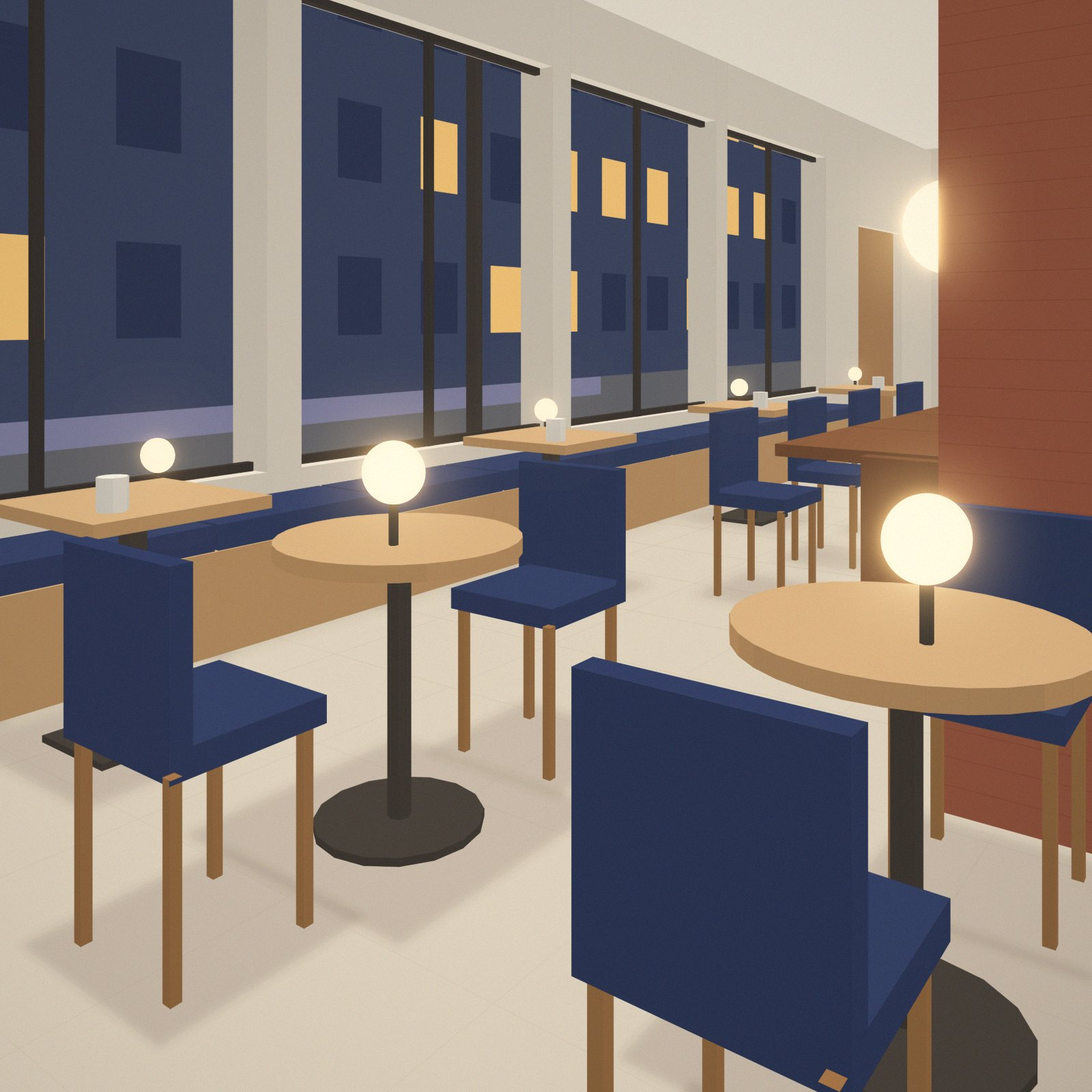
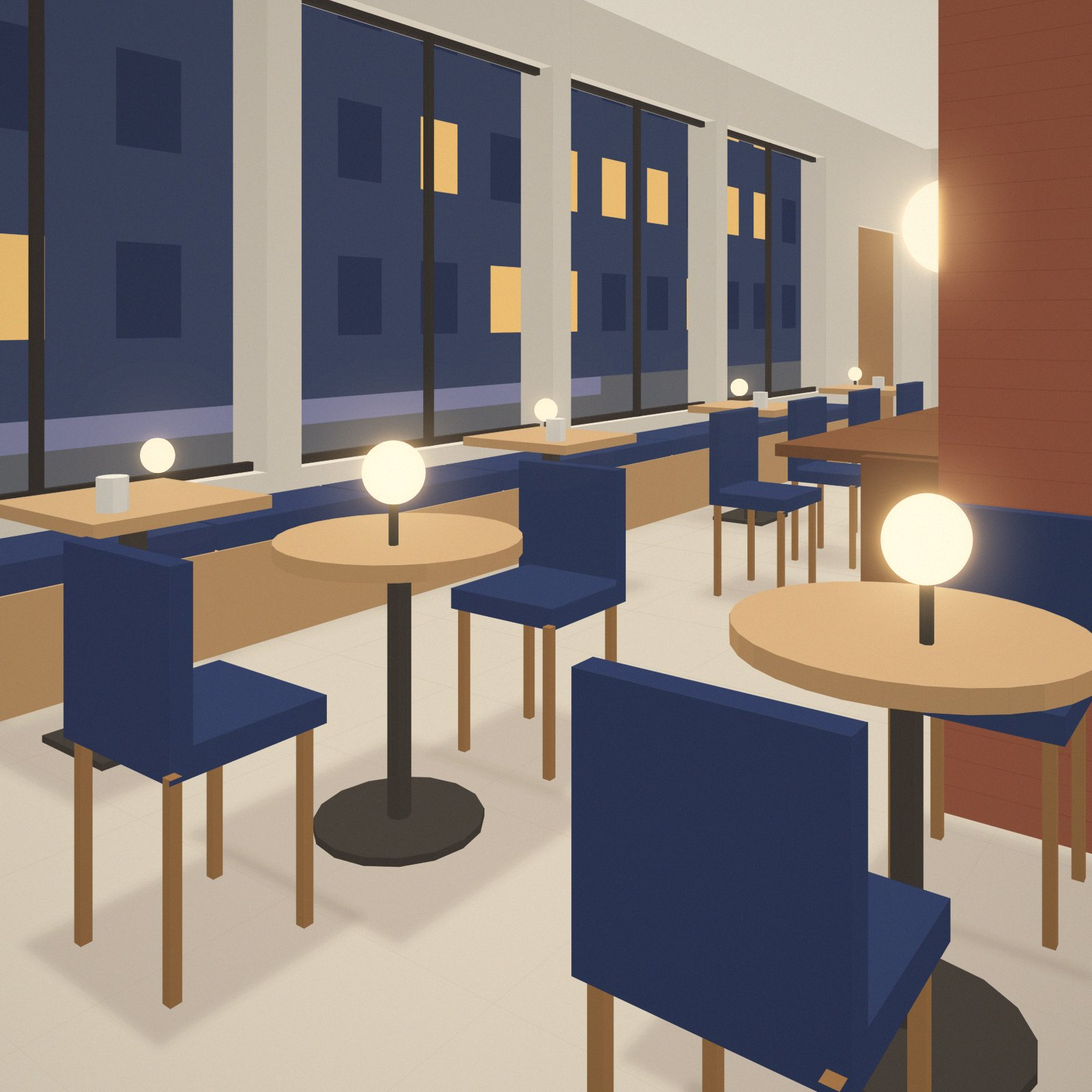
달빛카페: 위치를 해방촌 언덕으로 옮김(주소·문구, 녹사평역에서 오르는 언덕 약도, 만월창 창밖에 비탈 아래 지붕과 불빛)

Changed region(s): [[0.4062, 0.0312, 0.4688, 0.4062]]

diff --git a/projects/moonlight-cafe/visit.html b/projects/moonlight-cafe/visit.html
@@ -10,9 +10,9 @@
   <link rel="preconnect" href="https://fonts.gstatic.com" crossorigin>
   <link rel="stylesheet" href="https://fonts.googleapis.com/css2?family=Gowun+Batang:wght@400;700&display=swap">
   <link rel="stylesheet" href="https://cdn.jsdelivr.net/gh/orioncactus/pretendard@v1.3.9/dist/web/variable/pretendardvariable-dynamic-subset.min.css">
-  <link rel="stylesheet" href="css/style.css?v=20261116-1">
-  <script src="js/common.js?v=20261116-1" defer></script>
-  <script src="js/pages.js?v=20261116-1" defer></script>
+  <link rel="stylesheet" href="css/style.css?v=20261116-2">
+  <script src="js/common.js?v=20261116-2" defer></script>
+  <script src="js/pages.js?v=20261116-2" defer></script>
 </head>
 <body>
   <a class="skip-link" href="#main">본문 바로가기</a>
@@ -43,7 +43,7 @@
       <div class="container">
         <h1 class="title-xl">찾아오시는 길</h1>
         <p class="lead">저녁 여섯 시부터 새벽 두 시까지 문을 엽니다.</p>
-        <figure class="page-photo"><img src="images/space/facade.jpg" alt="벽돌 건물 1층, 나무 문 옆 긴 창 너머로 불 켜진 달빛의 실내" width="1600" height="2000" data-fallback="images/found/latte-cup.jpg" data-fallback-alt="손바닥 위에 놓인 라떼 한 잔"></figure>
+        <figure class="page-photo"><img src="images/space/facade.jpg" alt="해방촌 언덕길의 벽돌 건물 1층, 나무 문 옆 긴 창 너머로 불 켜진 달빛의 실내" width="1600" height="2000" data-fallback="images/found/latte-cup.jpg" data-fallback-alt="손바닥 위에 놓인 라떼 한 잔"></figure>
       </div>
     </section>
 
@@ -55,7 +55,7 @@
         <dl class="info-list">
           <div>
             <dt>주소</dt>
-            <dd>서울시 중구 월하길 15, 1층</dd>
+            <dd>서울시 용산구 해방촌 월하길 15, 1층</dd>
           </div>
           <div>
             <dt>전화</dt>
@@ -118,7 +118,7 @@
         <figure class="map-figure">
           <svg class="map" viewBox="0 0 480 360" role="img" aria-labelledby="map-svg-title map-svg-desc">
             <title id="map-svg-title">달빛 가는 길 약도</title>
-            <desc id="map-svg-desc">월하역 2번 출구로 나와 월하대로를 따라 오른쪽으로 걷다가, 월하길로 들어서면 왼쪽에 달빛이 있습니다. 월하길 입구에 버스 정류장이 있습니다.</desc>
+            <desc id="map-svg-desc">녹사평역에서 신흥로 언덕길을 따라 해방촌 오거리까지 올라간 뒤, 동쪽으로 내려가는 월하길로 들어서면 왼쪽에 달빛이 있습니다. 달빛 동쪽은 비탈이 낮아져 지붕들 너머로 하늘이 트여 있습니다.</desc>
             <defs>
               <radialGradient id="map-moon" cx="40%" cy="38%" r="70%">
                 <stop offset="0" stop-color="#F8F2E2"/>
@@ -126,47 +126,54 @@
               </radialGradient>
             </defs>
             <rect class="map-bg" width="480" height="360"/>
+            <!-- 등고선: 서북쪽(남산)이 높고 동쪽으로 낮아진다 -->
+            <g class="map-contour">
+              <path d="M0 96 C 60 70, 120 40, 150 0"/>
+              <path d="M0 150 C 90 120, 170 70, 214 0"/>
+              <path d="M396 0 C 400 90, 420 190, 480 250"/>
+              <path d="M428 0 C 432 80, 448 160, 480 196"/>
+              <path d="M300 360 C 360 300, 420 270, 480 300"/>
+            </g>
             <!-- 건물 -->
             <g class="map-block">
-              <rect x="24" y="24" width="112" height="76"/>
-              <rect x="156" y="24" width="120" height="76"/>
-              <rect x="24" y="152" width="112" height="92"/>
-              <rect x="156" y="152" width="108" height="92"/>
-              <rect x="340" y="24" width="116" height="100"/>
-              <rect x="340" y="146" width="76" height="78"/>
-              <rect x="24" y="330" width="160" height="30"/>
-              <rect x="204" y="330" width="252" height="30"/>
+              <rect x="236" y="34" width="56" height="56"/>
+              <rect x="302" y="34" width="84" height="56"/>
+              <rect x="244" y="176" width="66" height="56"/>
+              <rect x="322" y="186" width="58" height="48"/>
+              <rect x="128" y="236" width="76" height="58"/>
             </g>
             <!-- 길 -->
-            <g class="map-road">
-              <path d="M0 264 H480 M0 296 H480"/>
-              <path d="M290 0 V264 M318 0 V264"/>
-              <path d="M0 122 H290 M0 132 H290"/>
+            <g class="map-street">
+              <path d="M40 330 C 110 300, 70 240, 130 206 S 200 160, 212 126"/>
+              <path d="M212 126 C 280 130, 340 140, 470 186"/>
+              <path d="M212 126 C 196 90, 170 50, 160 0"/>
             </g>
-            <text class="map-road-name" x="470" y="286" text-anchor="end">월하대로</text>
-            <text class="map-road-name" x="304" y="60" text-anchor="middle" transform="rotate(-90 304 60)">월하길</text>
+            <text class="map-road-name" x="58" y="246" text-anchor="middle" transform="rotate(-56 58 246)">신흥로</text>
+            <text class="map-road-name" x="420" y="156" text-anchor="middle" transform="rotate(19 420 156)">월하길</text>
+            <text class="map-road-name" x="150" y="22" text-anchor="end">남산 쪽</text>
+            <text class="map-road-name" x="470" y="300" text-anchor="end">비탈 아래, 이태원 쪽</text>
             <!-- 걷는 길 -->
-            <path class="map-route" d="M84 280 H304 V188"/>
-            <!-- 지하철 출구 -->
+            <path class="map-route" d="M40 330 C 110 300, 70 240, 130 206 S 200 160, 212 126 C 260 129, 300 134, 344 142"/>
+            <!-- 지하철 -->
             <g class="map-exit">
-              <circle cx="84" cy="280" r="11"/>
-              <text x="84" y="284.5" text-anchor="middle">2</text>
+              <circle cx="40" cy="330" r="11"/>
+              <text x="40" y="334.5" text-anchor="middle">6</text>
             </g>
-            <text class="map-label" x="84" y="318" text-anchor="middle">월하역 2번 출구</text>
-            <!-- 버스 정류장 -->
-            <rect class="map-bus" x="324" y="240" width="12" height="12"/>
-            <text class="map-label" x="344" y="241"><tspan x="344">월하길 입구</tspan><tspan x="344" dy="1.25em">정류장</tspan></text>
+            <text class="map-label" x="58" y="346">녹사평역</text>
+            <!-- 버스 · 오거리 -->
+            <rect class="map-bus" x="218" y="104" width="12" height="12"/>
+            <text class="map-label" x="194" y="92" text-anchor="end"><tspan x="194">해방촌</tspan><tspan x="194" dy="1.25em">오거리</tspan></text>
             <!-- 달빛 -->
-            <circle class="map-cafe" cx="264" cy="180" r="13" fill="url(#map-moon)"/>
-            <text class="map-cafe-name" x="244" y="178" text-anchor="end">달빛</text>
-            <text class="map-label" x="244" y="196" text-anchor="end">1층</text>
+            <circle class="map-cafe" cx="344" cy="122" r="13" fill="url(#map-moon)"/>
+            <text class="map-cafe-name" x="364" y="121">달빛</text>
+            <text class="map-label" x="404" y="121">1층</text>
             <!-- 북쪽 -->
             <g class="map-north">
-              <path d="M450 200 V172 M444 180 L450 172 L456 180"/>
-              <text x="450" y="164" text-anchor="middle">N</text>
+              <path d="M450 92 V64 M444 72 L450 64 L456 72"/>
+              <text x="450" y="56" text-anchor="middle">N</text>
             </g>
           </svg>
-          <figcaption class="map-caption">실제 지도가 아닌 간단한 약도입니다. 월하역 2번 출구에서 걸어서 5분 거리입니다.</figcaption>
+          <figcaption class="map-caption">실제 지도가 아닌 간단한 약도입니다. 녹사평역에서 언덕길을 따라 걸어서 15분 거리입니다.</figcaption>
         </figure>
       </div>
     </section>
@@ -179,11 +186,11 @@
         <dl class="info-list">
           <div>
             <dt>지하철</dt>
-            <dd>월하역 2번 출구에서 걸어서 5분</dd>
+            <dd>6호선 녹사평역에서 신흥로 언덕길을 따라 걸어서 15분</dd>
           </div>
           <div>
             <dt>버스</dt>
-            <dd>월하길 입구 정류장에서 걸어서 2분</dd>
+            <dd>해방촌 오거리에서 내려 월하길을 따라 걸어서 3분</dd>
           </div>
           <div>
             <dt>주차</dt>
@@ -204,7 +211,7 @@
         <li><a href="visit.html">찾아오시는 길</a></li>
         <li><a href="news.html">소식</a></li>
       </ul>
-      <p class="footer-contact">서울시 중구 월하길 15, 1층<br>02-000-0000<br>화–일 18:00 – 02:00, 월요일 휴무</p>
+      <p class="footer-contact">서울시 용산구 해방촌 월하길 15, 1층<br>02-000-0000<br>화–일 18:00 – 02:00, 월요일 휴무</p>
     </div>
     <div class="footer-bottom">
       <div class="footer-legal">

diff --git a/projects/moonlight-cafe/space.html b/projects/moonlight-cafe/space.html
@@ -10,9 +10,9 @@
   <link rel="preconnect" href="https://fonts.gstatic.com" crossorigin>
   <link rel="stylesheet" href="https://fonts.googleapis.com/css2?family=Gowun+Batang:wght@400;700&display=swap">
   <link rel="stylesheet" href="https://cdn.jsdelivr.net/gh/orioncactus/pretendard@v1.3.9/dist/web/variable/pretendardvariable-dynamic-subset.min.css">
-  <link rel="stylesheet" href="css/style.css?v=20261116-1">
-  <script src="js/common.js?v=20261116-1" defer></script>
-  <script src="js/space.js?v=20261116-1" defer></script>
+  <link rel="stylesheet" href="css/style.css?v=20261116-2">
+  <script src="js/common.js?v=20261116-2" defer></script>
+  <script src="js/space.js?v=20261116-2" defer></script>
 </head>
 <body>
   <a class="skip-link" href="#main">본문 바로가기</a>
@@ -46,7 +46,7 @@
           <p class="lead" data-reveal>달이 드는 방 하나. 월하길 쪽 긴 창과 동쪽 벽의 둥근 창으로 밤빛을 들였습니다.</p>
         </div>
         <dl class="meta project-meta" data-reveal>
-          <div><dt>위치</dt><dd>서울 중구 월하길 15, 1층</dd></div>
+          <div><dt>위치</dt><dd>서울 용산구 해방촌 월하길 15, 1층</dd></div>
           <div><dt>연도</dt><dd>2026</dd></div>
           <div><dt>면적</dt><dd>98㎡ (14.4 × 6.8m), 층고 3.4m</dd></div>
           <div><dt>좌석</dt><dd>스물여덟 자리</dd></div>
@@ -133,7 +133,7 @@
           <h2 id="concept-title" class="title-lg">밤에 차는 방</h2>
         </div>
         <div>
-          <p class="body-text">달빛이 들어선 곳은 오래된 인쇄소 1층입니다. 벽돌 기둥 두 개와 높은 천장은 그대로 두고, 벽과 천장은 석회로 곱게 미장해 낮은 빛이 부드럽게 번지도록 했습니다.</p>
+          <p class="body-text">달빛이 들어선 곳은 해방촌 언덕의 오래된 인쇄소 1층입니다. 언덕이 동쪽으로 낮아지는 끝자리라 동쪽으로는 하늘을 가리는 건물이 없습니다. 벽돌 기둥 두 개와 높은 천장은 그대로 두고, 벽과 천장은 석회로 곱게 미장해 낮은 빛이 부드럽게 번지도록 했습니다.</p>
           <p class="body-text">조명은 모두 눈높이 아래에 둡니다. 큰 테이블 위 한지 등 세 개, 창가 벤치의 작은 등, 바 뒤 선반의 간접등이 전부입니다. 밤이 깊을수록 창밖의 달과 가로등이 방에서 가장 밝은 빛이 됩니다.</p>
           <p class="body-text">자리는 혼자 오는 사람을 먼저 생각했습니다. 바에 네 자리, 창가 벤치에 열 자리, 두 사람이 마주 앉는 등 아래 자리와 여덟 명이 함께 쓰는 큰 테이블이 있습니다.</p>
         </div>
@@ -399,9 +399,10 @@
       <div class="container moon-window-layout">
         <div class="moon-window-text">
           <h2 id="moon-window-title" class="title-lg">만월창</h2>
-          <p class="body-text">동쪽 벽에 지름 1.6m의 둥근 창을 냈습니다. 보름 무렵이면 문을 여는 저녁, 이 창 위로 달이 떠오릅니다. 두 자리뿐이라 먼저 오신 분의 자리입니다.</p>
+          <p class="body-text">동쪽 벽에 지름 1.6m의 둥근 창을 냈습니다. 창 아래로 비탈의 지붕들이 낮게 내려가 하늘이 트여 있어, 보름 무렵이면 문을 여는 저녁 그 지붕들 위로 달이 떠오릅니다. 두 자리뿐이라 먼저 오신 분의 자리입니다.</p>
           <dl class="meta">
             <div><dt>창</dt><dd>지름 1.6m, 바닥에서 0.7m 위</dd></div>
+            <div><dt>창밖</dt><dd>동쪽 비탈, 낮은 지붕들과 하늘</dd></div>
             <div><dt>테이블</dt><dd>오크, 지름 70cm</dd></div>
             <div><dt>의자</dt><dd>남색 벨벳 두 개</dd></div>
           </dl>
@@ -440,7 +441,7 @@
     </section>
 
     <figure class="shot shot--bleed" data-reveal>
-      <img src="images/space/moon-window.jpg" alt="석회 벽에 뚫린 둥근 창 너머 밤하늘의 보름달, 창 앞의 둥근 테이블과 남색 의자 두 개" width="2400" height="1350" loading="lazy" data-fallback>
+      <img src="images/space/moon-window.jpg" alt="석회 벽에 뚫린 둥근 창 너머 비탈 아래 불 켜진 지붕들과 보름달, 창 앞의 둥근 테이블과 남색 의자 두 개" width="2400" height="1350" loading="lazy" data-fallback>
       <figcaption class="container">6 · 만월창 자리</figcaption>
     </figure>
 
@@ -450,7 +451,7 @@
           <h2 id="space-end-title" class="title-lg">월하길에서</h2>
         </div>
         <div>
-          <p class="body-text">나무 문 옆으로 긴 창이 이어집니다. 불이 켜져 있으면 문을 연 날입니다.</p>
+          <p class="body-text">해방촌 오거리에서 동쪽으로 내려가는 골목입니다. 나무 문 옆으로 긴 창이 이어지고, 불이 켜져 있으면 문을 연 날입니다.</p>
           <p class="space-end-links"><a class="btn" href="visit.html">찾아오시는 길</a><a class="text-link" href="menu.html">메뉴 보기</a></p>
         </div>
       </div>
@@ -467,7 +468,7 @@
         <li><a href="visit.html">찾아오시는 길</a></li>
         <li><a href="news.html">소식</a></li>
       </ul>
-      <p class="footer-contact">서울시 중구 월하길 15, 1층<br>02-000-0000<br>화–일 18:00 – 02:00, 월요일 휴무</p>
+      <p class="footer-contact">서울시 용산구 해방촌 월하길 15, 1층<br>02-000-0000<br>화–일 18:00 – 02:00, 월요일 휴무</p>
     </div>
     <div class="footer-bottom">
       <div class="footer-legal">

diff --git a/projects/moonlight-cafe/index.html b/projects/moonlight-cafe/index.html
@@ -10,11 +10,11 @@
   <link rel="preconnect" href="https://fonts.gstatic.com" crossorigin>
   <link rel="stylesheet" href="https://fonts.googleapis.com/css2?family=Gowun+Batang:wght@400;700&display=swap">
   <link rel="stylesheet" href="https://cdn.jsdelivr.net/gh/orioncactus/pretendard@v1.3.9/dist/web/variable/pretendardvariable-dynamic-subset.min.css">
-  <link rel="stylesheet" href="css/style.css?v=20261116-1">
-  <script src="js/data-menu.js?v=20261116-1" defer></script>
-  <script src="js/data-news.js?v=20261116-1" defer></script>
-  <script src="js/common.js?v=20261116-1" defer></script>
-  <script src="js/home.js?v=20261116-1" defer></script>
+  <link rel="stylesheet" href="css/style.css?v=20261116-2">
+  <script src="js/data-menu.js?v=20261116-2" defer></script>
+  <script src="js/data-news.js?v=20261116-2" defer></script>
+  <script src="js/common.js?v=20261116-2" defer></script>
+  <script src="js/home.js?v=20261116-2" defer></script>
 </head>
 <body>
   <a class="skip-link" href="#main">본문 바로가기</a>
@@ -45,14 +45,14 @@
       <div class="hero-head">
         <div class="hero-text">
           <h1 id="hero-title" class="hero-title" data-reveal>달이 뜨면<br>문을 엽니다</h1>
-          <p class="hero-lead" data-reveal>하루를 마친 저녁, 잠시 머물다 가는 동네 카페입니다. 화요일부터 일요일까지 저녁 6시에 문을 열고 새벽 2시까지 불을 켜 둡니다.</p>
+          <p class="hero-lead" data-reveal>하루를 마친 저녁, 잠시 머물다 가는 해방촌 언덕의 카페입니다. 화요일부터 일요일까지 저녁 6시에 문을 열고 새벽 2시까지 불을 켜 둡니다.</p>
           <div class="hero-actions" data-reveal>
             <a class="btn" href="menu.html">메뉴 보기</a>
             <a class="text-link" href="space.html">공간 둘러보기</a>
           </div>
         </div>
         <dl class="meta hero-meta" data-reveal>
-          <div><dt>위치</dt><dd>서울 중구 월하길 15, 1층</dd></div>
+          <div><dt>위치</dt><dd>서울 용산구 해방촌 월하길 15, 1층</dd></div>
           <div><dt>영업</dt><dd>화–일 18:00 – 02:00</dd></div>
           <div><dt>공간</dt><dd>98㎡, 스물여덟 자리</dd></div>
           <div class="tonight">
@@ -131,7 +131,7 @@
     <section class="space-teaser" aria-labelledby="space-teaser-title">
       <div class="space-teaser-text">
         <h2 id="space-teaser-title" class="head" data-reveal>달이 드는 방</h2>
-        <p class="intro-text" data-reveal>월하길을 따라 난 긴 창과 동쪽 벽의 둥근 창. 오래된 인쇄소 1층, 98㎡에 스물여덟 자리를 두었습니다.</p>
+        <p class="intro-text" data-reveal>해방촌 언덕이 동쪽으로 낮아지는 끝자리, 오래된 인쇄소 1층입니다. 월하길을 따라 난 긴 창과 지붕들 너머 하늘로 난 둥근 창, 98㎡에 스물여덟 자리를 두었습니다.</p>
         <dl class="meta" data-reveal>
           <div><dt>면적</dt><dd>14.4 × 6.8m, 층고 3.4m</dd></div>
           <div><dt>재료</dt><dd>석회 미장, 오크, 옛 벽돌, 남색 벨벳</dd></div>
@@ -287,9 +287,9 @@
     <section class="visit" aria-labelledby="visit-title">
       <div class="visit-text">
         <h2 id="visit-title" class="visit-address" data-reveal>월하길 15</h2>
-        <p class="visit-lead" data-reveal>월하역 2번 출구에서 걸어서 5분. 자정이 지나도 새벽 두 시까지 불을 켜 둡니다.</p>
+        <p class="visit-lead" data-reveal>녹사평역에서 언덕길을 따라 걸어서 15분. 자정이 지나도 새벽 두 시까지 불을 켜 둡니다.</p>
         <dl class="meta visit-info" data-reveal>
-          <div><dt>주소</dt><dd>서울시 중구 월하길 15, 1층</dd></div>
+          <div><dt>주소</dt><dd>서울시 용산구 해방촌 월하길 15, 1층</dd></div>
           <div><dt>전화</dt><dd>02-000-0000</dd></div>
           <div><dt>영업</dt><dd>화–일 18:00 – 02:00, 월요일 휴무</dd></div>
         </dl>
@@ -299,7 +299,7 @@
         </div>
       </div>
       <figure class="visit-photo" data-reveal>
-        <img src="images/space/facade.jpg" alt="밤에 불이 켜진 달빛의 나무 문과 긴 창, 월하길 쪽에서 본 모습" width="1600" height="2000" loading="lazy" data-fallback="images/found/latte-cup.jpg" data-fallback-alt="손바닥 위에 놓인 라떼 한 잔">
+        <img src="images/space/facade.jpg" alt="밤에 불이 켜진 달빛의 나무 문과 긴 창, 해방촌 월하길에서 본 모습" width="1600" height="2000" loading="lazy" data-fallback="images/found/latte-cup.jpg" data-fallback-alt="손바닥 위에 놓인 라떼 한 잔">
       </figure>
     </section>
   </main>
@@ -314,7 +314,7 @@
         <li><a href="visit.html">찾아오시는 길</a></li>
         <li><a href="news.html">소식</a></li>
       </ul>
-      <p class="footer-contact">서울시 중구 월하길 15, 1층<br>02-000-0000<br>화–일 18:00 – 02:00, 월요일 휴무</p>
+      <p class="footer-contact">서울시 용산구 해방촌 월하길 15, 1층<br>02-000-0000<br>화–일 18:00 – 02:00, 월요일 휴무</p>
     </div>
     <div class="footer-bottom">
       <div class="footer-legal">

diff --git a/projects/moonlight-cafe/about.html b/projects/moonlight-cafe/about.html
@@ -10,10 +10,10 @@
   <link rel="preconnect" href="https://fonts.gstatic.com" crossorigin>
   <link rel="stylesheet" href="https://fonts.googleapis.com/css2?family=Gowun+Batang:wght@400;700&display=swap">
   <link rel="stylesheet" href="https://cdn.jsdelivr.net/gh/orioncactus/pretendard@v1.3.9/dist/web/variable/pretendardvariable-dynamic-subset.min.css">
-  <link rel="stylesheet" href="css/style.css?v=20261116-1">
-  <script src="js/data-menu.js?v=20261116-1" defer></script>
-  <script src="js/common.js?v=20261116-1" defer></script>
-  <script src="js/pages.js?v=20261116-1" defer></script>
+  <link rel="stylesheet" href="css/style.css?v=20261116-2">
+  <script src="js/data-menu.js?v=20261116-2" defer></script>
+  <script src="js/common.js?v=20261116-2" defer></script>
+  <script src="js/pages.js?v=20261116-2" defer></script>
 </head>
 <body>
   <a class="skip-link" href="#main">본문 바로가기</a>
@@ -78,7 +78,7 @@
       <div class="container">
         <div class="section-head">
           <h2 id="space-title" class="title-lg">공간</h2>
-          <p class="body-text">오래된 인쇄소 1층, 98㎡에 스물여덟 자리. <a class="text-link" href="space.html">평면도와 단면도로 둘러보기</a></p>
+          <p class="body-text">해방촌 언덕의 오래된 인쇄소 1층, 98㎡에 스물여덟 자리. <a class="text-link" href="space.html">평면도와 단면도로 둘러보기</a></p>
         </div>
         <div class="space-grid">
           <figure class="space-item">
@@ -123,7 +123,7 @@
         <li><a href="visit.html">찾아오시는 길</a></li>
         <li><a href="news.html">소식</a></li>
       </ul>
-      <p class="footer-contact">서울시 중구 월하길 15, 1층<br>02-000-0000<br>화–일 18:00 – 02:00, 월요일 휴무</p>
+      <p class="footer-contact">서울시 용산구 해방촌 월하길 15, 1층<br>02-000-0000<br>화–일 18:00 – 02:00, 월요일 휴무</p>
     </div>
     <div class="footer-bottom">
       <div class="footer-legal">

diff --git a/projects/moonlight-cafe/news.html b/projects/moonlight-cafe/news.html
@@ -10,10 +10,10 @@
   <link rel="preconnect" href="https://fonts.gstatic.com" crossorigin>
   <link rel="stylesheet" href="https://fonts.googleapis.com/css2?family=Gowun+Batang:wght@400;700&display=swap">
   <link rel="stylesheet" href="https://cdn.jsdelivr.net/gh/orioncactus/pretendard@v1.3.9/dist/web/variable/pretendardvariable-dynamic-subset.min.css">
-  <link rel="stylesheet" href="css/style.css?v=20261116-1">
-  <script src="js/data-news.js?v=20261116-1" defer></script>
-  <script src="js/common.js?v=20261116-1" defer></script>
-  <script src="js/pages.js?v=20261116-1" defer></script>
+  <link rel="stylesheet" href="css/style.css?v=20261116-2">
+  <script src="js/data-news.js?v=20261116-2" defer></script>
+  <script src="js/common.js?v=20261116-2" defer></script>
+  <script src="js/pages.js?v=20261116-2" defer></script>
 </head>
 <body>
   <a class="skip-link" href="#main">본문 바로가기</a>
@@ -67,7 +67,7 @@
         <li><a href="visit.html">찾아오시는 길</a></li>
         <li><a href="news.html">소식</a></li>
       </ul>
-      <p class="footer-contact">서울시 중구 월하길 15, 1층<br>02-000-0000<br>화–일 18:00 – 02:00, 월요일 휴무</p>
+      <p class="footer-contact">서울시 용산구 해방촌 월하길 15, 1층<br>02-000-0000<br>화–일 18:00 – 02:00, 월요일 휴무</p>
     </div>
     <div class="footer-bottom">
       <div class="footer-legal">

diff --git a/projects/moonlight-cafe/menu.html b/projects/moonlight-cafe/menu.html
@@ -10,10 +10,10 @@
   <link rel="preconnect" href="https://fonts.gstatic.com" crossorigin>
   <link rel="stylesheet" href="https://fonts.googleapis.com/css2?family=Gowun+Batang:wght@400;700&display=swap">
   <link rel="stylesheet" href="https://cdn.jsdelivr.net/gh/orioncactus/pretendard@v1.3.9/dist/web/variable/pretendardvariable-dynamic-subset.min.css">
-  <link rel="stylesheet" href="css/style.css?v=20261116-1">
-  <script src="js/data-menu.js?v=20261116-1" defer></script>
-  <script src="js/common.js?v=20261116-1" defer></script>
-  <script src="js/menu.js?v=20261116-1" defer></script>
+  <link rel="stylesheet" href="css/style.css?v=20261116-2">
+  <script src="js/data-menu.js?v=20261116-2" defer></script>
+  <script src="js/common.js?v=20261116-2" defer></script>
+  <script src="js/menu.js?v=20261116-2" defer></script>
 </head>
 <body>
   <a class="skip-link" href="#main">본문 바로가기</a>
@@ -83,7 +83,7 @@
         <li><a href="visit.html">찾아오시는 길</a></li>
         <li><a href="news.html">소식</a></li>
       </ul>
-      <p class="footer-contact">서울시 중구 월하길 15, 1층<br>02-000-0000<br>화–일 18:00 – 02:00, 월요일 휴무</p>
+      <p class="footer-contact">서울시 용산구 해방촌 월하길 15, 1층<br>02-000-0000<br>화–일 18:00 – 02:00, 월요일 휴무</p>
     </div>
     <div class="footer-bottom">
       <div class="footer-legal">

diff --git a/projects/moonlight-cafe/css/style.css b/projects/moonlight-cafe/css/style.css
@@ -1950,6 +1950,8 @@ html:has(.menu-dialog[open]) {
 .map-bg { fill: var(--surface); }
 .map-block rect { fill: var(--surface-2); }
 .map-road path { fill: none; stroke: #cfc6b8; stroke-width: 2; }
+.map-street path { fill: none; stroke: var(--bg); stroke-width: 14; stroke-linecap: round; stroke-linejoin: round; }
+.map-contour path { fill: none; stroke: var(--surface-2); stroke-width: 1.5; }
 .map-road-name { font-size: 12px; fill: var(--muted); }
 .map-route { fill: none; stroke: var(--brand); stroke-width: 2.5; stroke-dasharray: 2 7; stroke-linecap: round; }
 .map-exit circle { fill: var(--bg); stroke: var(--brand); stroke-width: 1.5; }
